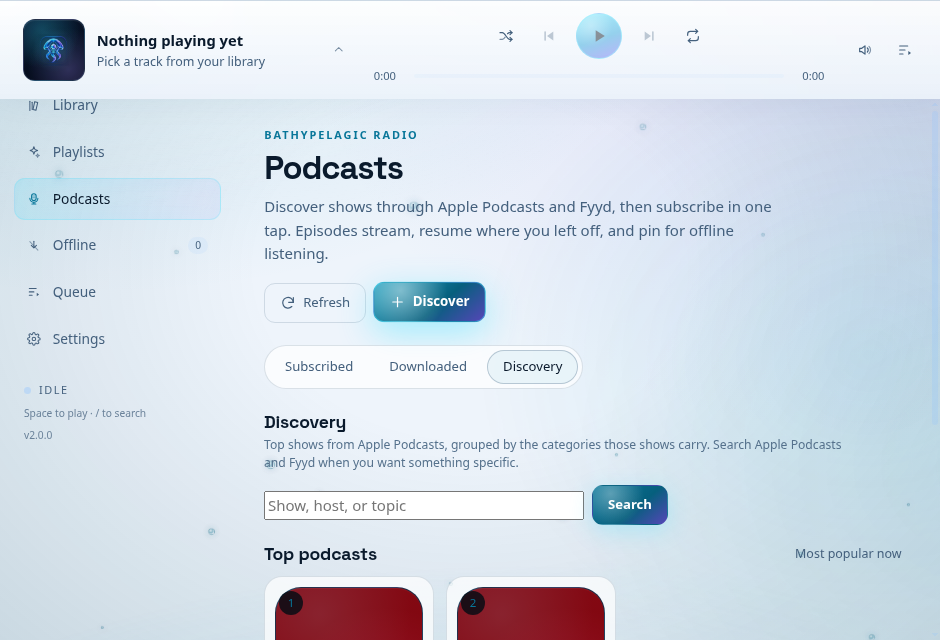
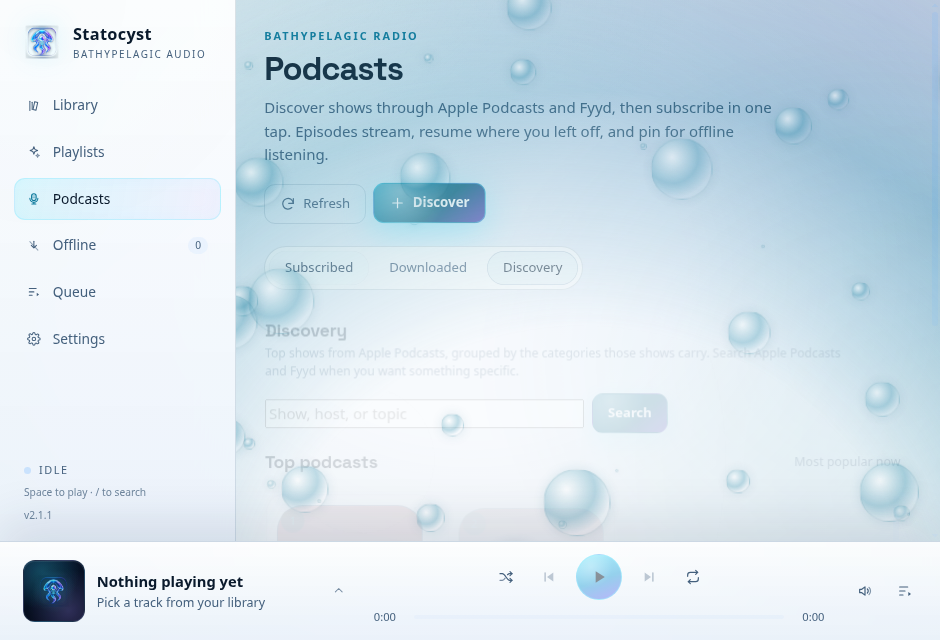
fix(desktop): keep mini player at the bottom and foam over content
Explicitly place .main in grid row 1 so the player stays in row 2 and the foam overlay spans the content area. Add an Electron layout regression test and bump to 2.1.2.

diff --git a/e2e/desktop.spec.ts b/e2e/desktop.spec.ts
@@ -255,3 +255,37 @@ test('local import, real playback, queue edits and restart recovery', async () =
     }
   }
 });
+
+test('mini player stays below the content and the foam covers the content area', async () => {
+  const dataDir = await mkdtemp(join(tmpdir(), 'statocyst-layout-'));
+  let app: ElectronApplication | null = null;
+  let page: Page | null = null;
+  try {
+    ({ app, page } = await launch(dataDir));
+    const layout = await page.evaluate(() => {
+      const rectOf = (selector: string) => {
+        const element = document.querySelector(selector);
+        if (!element) throw new Error(`Missing ${selector}`);
+        const rect = element.getBoundingClientRect();
+        return { top: rect.top, bottom: rect.bottom, height: rect.height };
+      };
+      return {
+        viewportHeight: window.innerHeight,
+        main: rectOf('.main'),
+        foam: rectOf('.transition-foam'),
+        player: rectOf('.player-slot'),
+      };
+    });
+
+    // The grid must keep the player in the second row; it must never float above main.
+    expect(layout.player.top).toBeGreaterThanOrEqual(layout.main.bottom - 1);
+    expect(layout.player.bottom).toBeLessThanOrEqual(layout.viewportHeight + 1);
+    // The foam overlay covers the content area, ending exactly where the player starts.
+    expect(layout.foam.top).toBeCloseTo(layout.main.top, 0);
+    expect(layout.foam.height).toBeCloseTo(layout.main.height, 0);
+    expect(layout.foam.bottom).toBeLessThanOrEqual(layout.player.top + 1);
+  } finally {
+    if (app) await app.close().catch(() => undefined);
+    await rm(dataDir, { recursive: true, force: true });
+  }
+});

diff --git a/apps/desktop/src/app/app.component.ts b/apps/desktop/src/app/app.component.ts
@@ -388,6 +388,7 @@ interface NavItem {
       }
       .main {
         grid-column: 2;
+        grid-row: 1;
         overflow: auto;
         min-height: 0;
         outline: none;

diff --git a/statocyst-architecture-pack/evidence/RELEASE-2.1.2.md b/statocyst-architecture-pack/evidence/RELEASE-2.1.2.md
@@ -1,0 +1,25 @@
+# Statocyst 2.1.2 — Desktop mini-player layout fix
+
+**Release date:** 2026-11-08
+**Version:** `2.1.2` (`versionCode 31`)
+
+## Fixed
+
+- The desktop mini-player is back at the bottom of the window. `.main` is now explicitly
+  placed in grid row 1, so the explicitly placed foam overlay and player can no longer push
+  the content into an implicit third row.
+- The bubble/foam transition now covers the full content area above the mini-player instead
+  of collapsing to a zero-height row.
+- Added an Electron regression test asserting:
+  - the player starts at or below the content bottom;
+  - the player stays inside the viewport;
+  - the foam overlay starts at the content top, matches its height and ends at the player.
+
+## Verification
+
+- Reproduced with the packaged Electron renderer before the fix:
+  `grid-template-rows: 0px 99px 541px`, player at `y=0`, foam height `0`.
+- After the fix: `grid-template-rows: 541px 99px`, player at `y=541`, foam height `541`.
+- `e2e/desktop.spec.ts` layout regression test passes.
+- Podcast Electron E2E passes.
+- CI runs web, Android unit/instrumented and iOS build jobs on the release commit.
